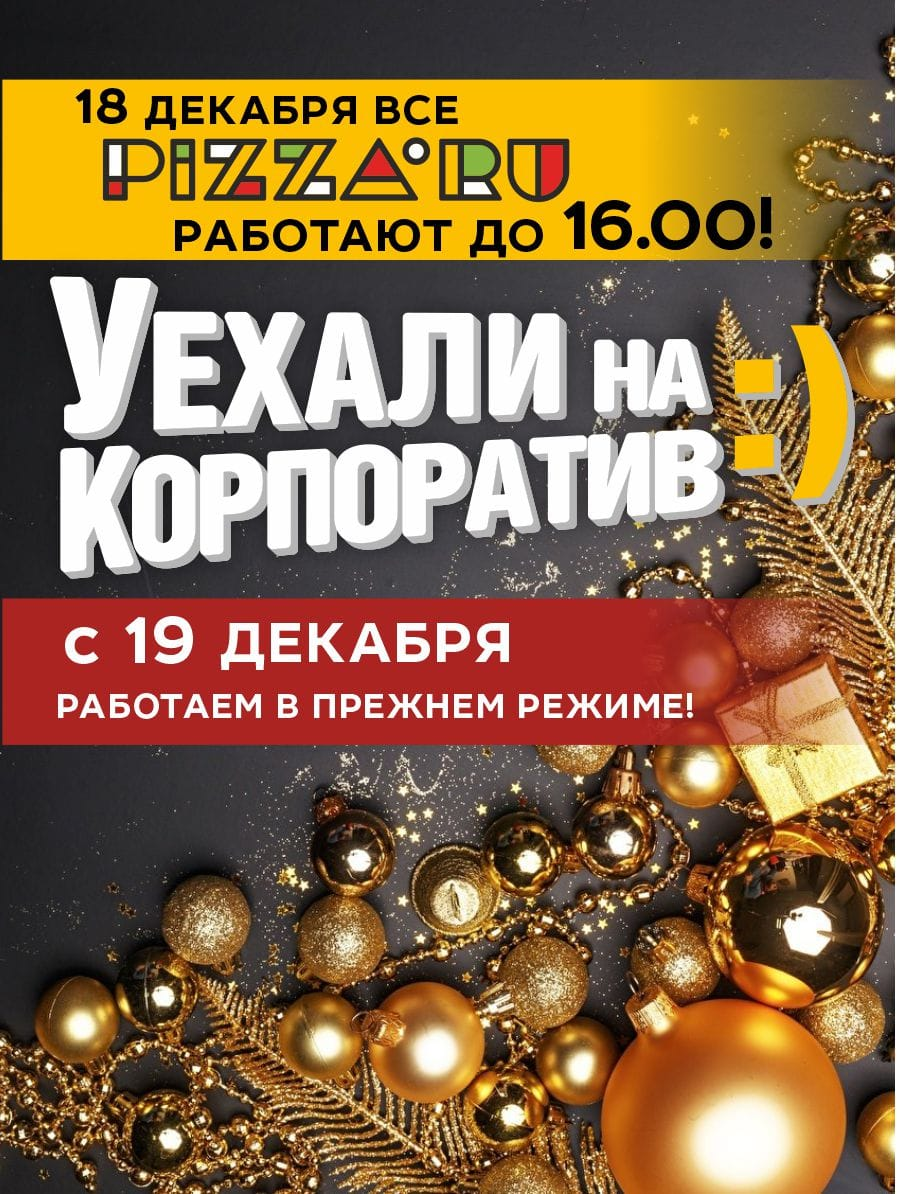
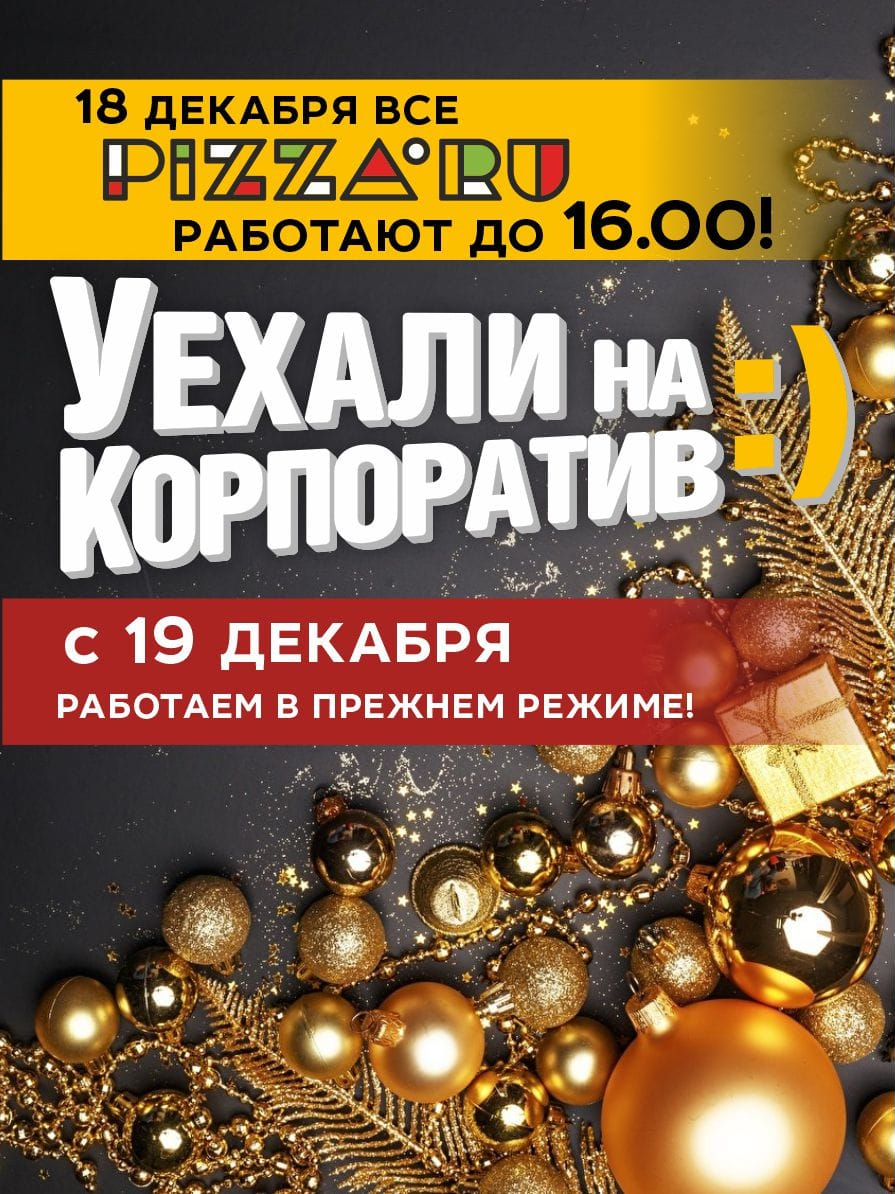
change

diff --git a/index.html b/index.html
@@ -1,7 +1,7 @@
 <html>
 <body style="background: #727270">
   <div style="width: 100%; height: 100%">
-    <img src="placeholder.png" style="height: 100%; width:100%;position: fixed;margin-top: -10px;margin-left: -7px;"/>
+    <img src="placeholder.png" style="height: 100%; width:100%;position: fixed;margin-top: -10px;margin-left: -10px;"/>
   </div>
 </body>
 </html>
